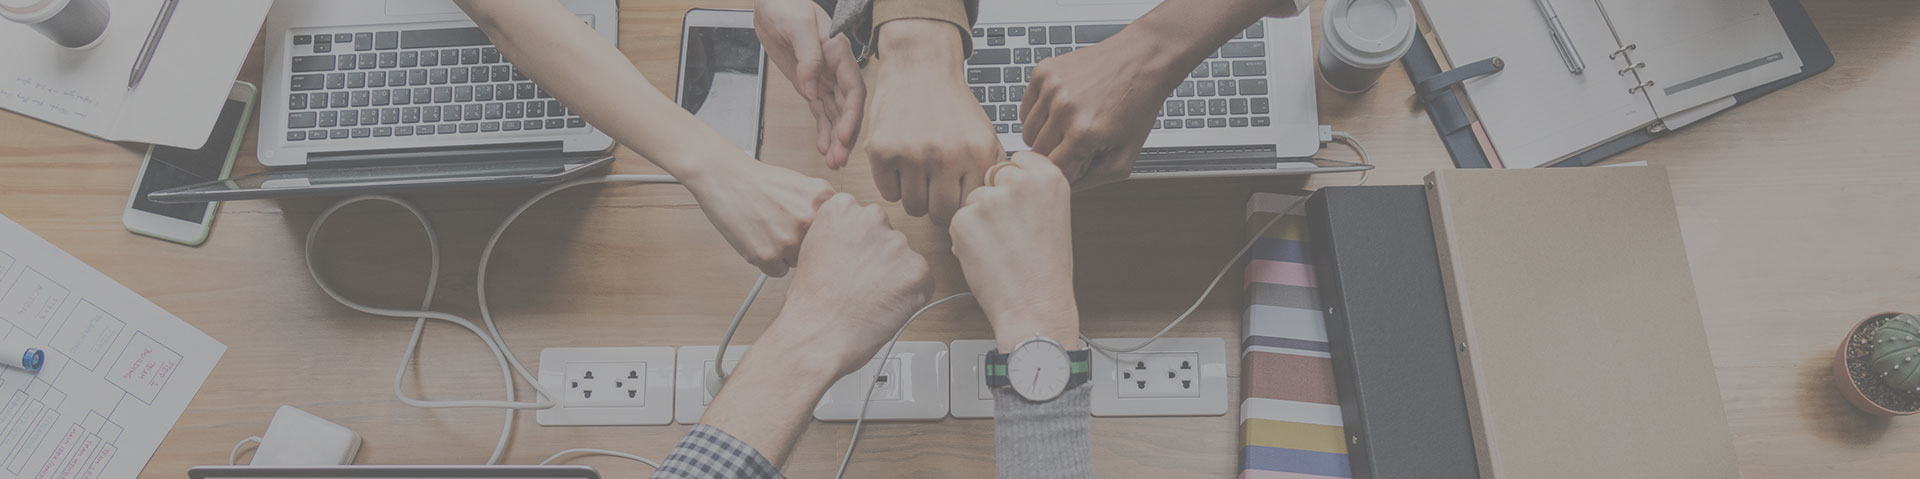
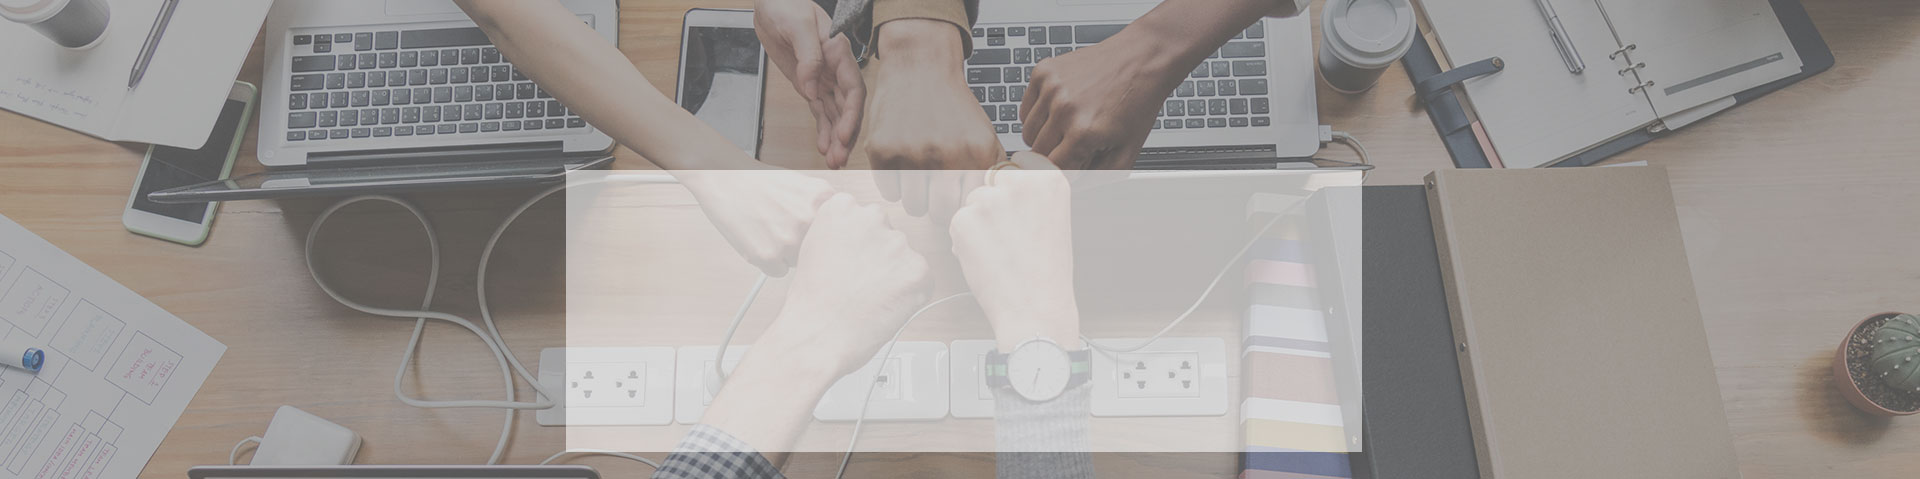
digitoreo

Changed region(s): [[0.2812, 0.3507, 0.7188, 0.9645]]

diff --git a/index.html b/index.html
@@ -300,9 +300,9 @@
             <section class="top_panel_image top_panel_image_1">
                 <div class="top_panel_image_hover"></div>
                 <div class="top_panel_image_header">
-                    <h2 class="top_panel_image_title">Monitoreo Digital</h2>
+                    <h2 class="top_panel_image_title">Digitoreo</h2>
 					
-<h4 class="sc_services_item_title"><div style="text-align:justify"><span class="sc_highlight sc_highlight_style_1">Tiene como objetivo organizar, sistematizar y clasificar información del gobierno en sus distintos órdenes, además de las distintas organizaciones no gubernamentales e internacionales en tiempo real la cual llega de manera puntual a través de nuestras alertas.</h4></div></span>
+<h4 ><div style="text-align:justify">Tiene como objetivo organizar, sistematizar y clasificar información del gobierno en sus distintos órdenes, además de las distintas organizaciones no gubernamentales e internacionales en tiempo real la cual llega de manera puntual a través de nuestras alertas.</h4></div>
 </div>
             </section>
           <div class="page_content_wrap page_paddings_no">
